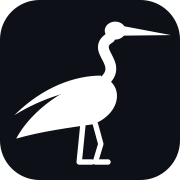
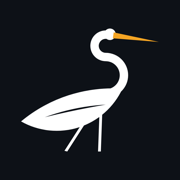
feat(brand): redraw the egret mark from circles and straight lines (#841)
* feat(brand): redraw the egret mark from circles and straight lines

The new mark is built only from basic geometry, shape-builder style:
two half-rings on one axis form the S-neck, a circle and a tangent
triangle form the head and beak, two intersecting circles form the
body, a crescent cuts the wing, and two rectangles are the legs.
Every outline in the shipped SVGs is an arc (A) or a line (L).

- favicon.svg, favicon-32, apple-touch-icon, icon-192/512: full mark
- favicon-16 and the 16px ICO frame: legs and wing cut dropped, as
  they vanish below 32px
- wordmarks (frontend/public and .github/assets): new bird, same letters
- architecture diagrams: embedded tile swapped
- egret-mark-construction.svg: the construction circles, for reference

* feat(brand): add the generator script for the egret mark

scripts/brand/egret_mark.py holds the geometric construction and writes
every logo asset from it: favicon.svg, wordmarks, architecture diagram
tiles, the construction sheet, and (via headless Chrome) the PNG/ICO
icons. Re-running it reproduces the committed assets byte for byte.
--docs copies the assets into an egret-data/docs checkout.

The construction sheet is now drawn from the flattened paths instead of
masks.

---------

diff --git a/scripts/brand/egret_mark.py b/scripts/brand/egret_mark.py
@@ -1,0 +1,309 @@
+#!/usr/bin/env python3
+"""Generate every egret logo asset from one geometric construction.
+
+The mark is built only from circles and straight lines, combined shape-builder style:
+
+  neck  = two half-rings (circle minus a concentric circle). Their centres A and B sit on one
+          vertical axis and each half is cut on that axis, so the two bands meet flush.
+  head  = one circle;  beak = triangle whose sides are tangent to a small root circle
+  body  = BACK ∩ BELLY (intersection of two circles)
+  wing  = crescent (circle minus circle) cut out of the body
+  legs  = two rectangles
+
+Every outline in the emitted SVGs is an arc (A) or a line (L). Change the construction values
+below and re-run to regenerate all assets.
+
+Usage (from the repo root):
+  python3 scripts/brand/egret_mark.py              # SVGs + PNG/ICO
+  python3 scripts/brand/egret_mark.py --svg-only   # SVGs only
+  python3 scripts/brand/egret_mark.py --docs ../docs   # also refresh the docs site copies
+
+PNG/ICO need headless Chrome (set CHROME=/path/to/chrome if it is not found) and either
+macOS `sips` or Pillow for downscaling.
+"""
+import argparse
+import math
+import os
+import re
+import shutil
+import struct
+import subprocess
+import sys
+import tempfile
+from pathlib import Path
+
+REPO = Path(__file__).resolve().parents[2]
+PI = math.pi
+
+# ---------------------------------------------------------------- construction (512 grid)
+def circle3(a, b, c):
+    """circle through three points → (cx, cy, r)"""
+    (ax, ay), (bx, by), (cx, cy) = a, b, c
+    d = 2 * (ax * (by - cy) + bx * (cy - ay) + cx * (ay - by))
+    ux = ((ax*ax + ay*ay) * (by - cy) + (bx*bx + by*by) * (cy - ay) + (cx*cx + cy*cy) * (ay - by)) / d
+    uy = ((ax*ax + ay*ay) * (cx - bx) + (bx*bx + by*by) * (ax - cx) + (cx*cx + cy*cy) * (bx - ax)) / d
+    return (ux, uy, math.hypot(ax - ux, ay - uy))
+
+
+def tangent_points(cx, cy, r, p):
+    """the two points where lines from p touch circle (cx, cy, r)"""
+    dx, dy = p[0] - cx, p[1] - cy
+    a, b = math.acos(r / math.hypot(dx, dy)), math.atan2(dy, dx)
+    return [(cx + r * math.cos(b + s * a), cy + r * math.sin(b + s * a)) for s in (1, -1)]
+
+
+X = 300                                  # neck axis
+W = 24                                   # neck weight
+A = (X, 252); RA_IN, RA_OUT = 40, 40 + W         # lower bowl, bulges forward
+B = (X, A[1] - RA_OUT - 20); RB_IN, RB_OUT = 20, 20 + W   # upper bowl, bulges back
+# flush joint: top band of A == bottom band of B
+assert (A[1] - RA_OUT, A[1] - RA_IN) == (B[1] + RB_IN, B[1] + RB_OUT)
+HEAD = (X + 12, B[1] - (RB_IN + RB_OUT) / 2 - 1, 16.5)
+TIP = (452, HEAD[1] + 22)
+ROOT = (HEAD[0] + 9, HEAD[1] + 3, 8.5)           # beak root circle
+BEAK = [TIP] + tangent_points(*ROOT, TIP)
+TAIL = (58, 384)
+FEET_Y = 470
+BACK = circle3(TAIL, (180, 314), (X + 2, A[1] + RA_IN - 2))
+BELLY = circle3(TAIL, (220, 402), (A[0] + RA_OUT - 22, A[1] + 50))
+WING_O = circle3((126, 372), (220, 346), (300, 336))
+WING_I = circle3((126, 372), (220, 351), (300, 336))
+LEGS = [[(282, 360), (290, 360), (286, FEET_Y), (278, FEET_Y)],
+        [(236, 384), (244, 386), (190, FEET_Y), (182, 468)]]
+
+# centre the bird in the tile
+TOP = min(B[1] - RB_OUT, HEAD[1] - HEAD[2])
+DX, DY = 256 - (TAIL[0] + TIP[0]) / 2, 256 - (TOP + FEET_Y) / 2
+
+DARK, ORANGE, ORANGE_ON_LIGHT = "#0d1117", "#f5a524", "#e8891a"
+
+# ---------------------------------------------------------------- path emission (M / L / A / Z)
+def num(v):
+    s = f"{v:.2f}".rstrip("0").rstrip(".")
+    return "0" if s == "-0" else s
+
+
+def pt(p):
+    return f"{num(p[0] + DX)} {num(p[1] + DY)}"
+
+
+def on(c, r, a):
+    return (c[0] + r * math.cos(a), c[1] + r * math.sin(a))
+
+
+def arc_to(c, r, a0, a1, ccw):
+    """arc on circle (c, r) from angle a0 to a1; ccw=True is counter-clockwise on screen"""
+    span = (a0 - a1) % (2 * PI) if ccw else (a1 - a0) % (2 * PI)
+    return f"A{num(r)} {num(r)} 0 {int(span > PI)} {0 if ccw else 1} {pt(on(c, r, a1))}"
+
+
+def inside(p, c):
+    return math.dist(p, c[:2]) < c[2] - 1e-6
+
+
+def intersections(c1, c2):
+    (x1, y1, r1), (x2, y2, r2) = c1, c2
+    d = math.dist((x1, y1), (x2, y2))
+    a = (r1*r1 - r2*r2 + d*d) / (2 * d); h = math.sqrt(r1*r1 - a*a)
+    mx, my = x1 + a * (x2 - x1) / d, y1 + a * (y2 - y1) / d
+    return [(mx + h * (y2 - y1) / d, my - h * (x2 - x1) / d), (mx - h * (y2 - y1) / d, my + h * (x2 - x1) / d)]
+
+
+def angle(c, p):
+    return math.atan2(p[1] - c[1], p[0] - c[0])
+
+
+def arc_between(c, p, q, other, want_inside):
+    """arc of c from p to q, taking the side whose midpoint is (not) inside `other`"""
+    a0, a1 = angle(c, p), angle(c, q)
+    for ccw in (False, True):
+        span = -((a0 - a1) % (2 * PI)) if ccw else (a1 - a0) % (2 * PI)
+        if inside(on(c, c[2], a0 + span / 2), other) == want_inside:
+            return arc_to(c, c[2], a0, a1, ccw)
+    raise ValueError("circles do not form the expected region")
+
+
+def lens(c1, c2):
+    p, q = intersections(c1, c2)
+    return f"M{pt(p)} {arc_between(c1, p, q, c2, True)} {arc_between(c2, q, p, c1, True)}Z"
+
+
+def crescent(outer, inner):
+    p, q = intersections(outer, inner)
+    return f"M{pt(p)} {arc_between(outer, p, q, inner, False)} {arc_between(inner, q, p, outer, True)}Z"
+
+
+def polygon(points):
+    return "M" + " L".join(pt(p) for p in points) + "Z"
+
+
+NECK = (f"M{pt((X, A[1] + RA_OUT))} "
+        f"{arc_to(A, RA_OUT, PI/2, -PI/2, True)} "               # front of the lower bowl
+        f"{arc_to(B, RB_IN, PI/2, 3*PI/2, False)} "              # inner edge of the upper bowl
+        f"L{pt((HEAD[0], B[1] - RB_IN))} L{pt((HEAD[0], B[1] - RB_OUT))} L{pt((X, B[1] - RB_OUT))} "
+        f"{arc_to(B, RB_OUT, 3*PI/2, PI/2, True)} "              # back of the upper bowl
+        f"{arc_to(A, RA_IN, -PI/2, PI/2, False)}Z")              # inner edge of the lower bowl
+HEAD_PATH = (f"M{pt((HEAD[0] - HEAD[2], HEAD[1]))} "
+             f"{arc_to(HEAD, HEAD[2], PI, 0, False)} {arc_to(HEAD, HEAD[2], 0, PI, False)}Z")
+BODY, WING = lens(BACK, BELLY), crescent(WING_O, WING_I)
+for p in intersections(WING_O, WING_I):
+    assert inside(p, BACK) and inside(p, BELLY), "the wing cut must sit inside the body"
+
+
+def svg(fg="#ffffff", accent=ORANGE, bg=DARK, tile=True, legs=True, wing=True, label=True, rx=112):
+    """the mark as an SVG document; legs/wing are dropped for the 16 px favicon"""
+    out = ['<svg xmlns="http://www.w3.org/2000/svg" viewBox="0 0 512 512"'
+           + (' role="img" aria-label="Egret"' if label else "") + ">"]
+    if tile:
+        out.append(f'<rect width="512" height="512" rx="{rx}" fill="{bg}"/>')
+    out.append(f'<path fill="{fg}" fill-rule="evenodd" d="{BODY}' + (f" {WING}" if wing else "") + '"/>')
+    out.append(f'<path fill="{fg}" d="{NECK}"/><path fill="{fg}" d="{HEAD_PATH}"/>')
+    if legs:
+        out.append(f'<path fill="{fg}" d="' + " ".join(polygon(l) for l in LEGS) + '"/>')
+    out.append(f'<path fill="{accent}" d="{polygon(BEAK)}"/>')
+    out.append("</svg>")
+    return "".join(out)
+
+
+def construction_svg():
+    """the mark, faded, with every construction circle and the neck axis on top"""
+    def circ(c, **kw):
+        attrs = "".join(f' {k.replace("_", "-")}="{v}"' for k, v in kw.items())
+        return f'<circle cx="{num(c[0] + DX)}" cy="{num(c[1] + DY)}" r="{num(c[2])}"{attrs}/>'
+    line = dict(fill="none", stroke="#e5484d", stroke_width="1.2")
+    circles = [(*A, RA_IN), (*A, RA_OUT), (*B, RB_IN), (*B, RB_OUT), HEAD, ROOT, BACK, BELLY, WING_O, WING_I]
+    parts = [f'<g opacity=".2">{inner(svg(fg=DARK, accent=DARK, tile=False, label=False))}</g>']
+    parts += [circ(c, **line) for c in circles]
+    parts += [circ((c[0], c[1], 2.4), fill="#e5484d") for c in (A, B, HEAD, BACK, BELLY)]
+    parts.append(f'<path d="{polygon(BEAK)} ' + " ".join(polygon(l) for l in LEGS) + '" fill="none" stroke="#e5484d" stroke-width="1.2"/>')
+    parts.append(f'<line x1="{num(X + DX)}" y1="40" x2="{num(X + DX)}" y2="480" stroke="#3b82f6" stroke-width="1" stroke-dasharray="4 4"/>')
+    return ('<svg xmlns="http://www.w3.org/2000/svg" viewBox="0 0 512 512">'
+            '<rect width="512" height="512" rx="112" fill="#f4f1ea"/>' + "".join(parts) + "</svg>\n")
+
+
+def inner(doc):
+    return re.sub(r"^<svg[^>]*>|</svg>$", "", doc)
+
+
+# ---------------------------------------------------------------- writers
+def replace_group(text, opener, new):
+    """swap the <g …> element that starts with `opener` (balanced on <g>/</g>)"""
+    i, depth = text.index(opener), 0
+    for m in re.finditer(r"<g\b|</g>", text[i:]):
+        depth += 1 if m.group() == "<g" else -1
+        if depth == 0:
+            return text[:i] + new + text[i + m.end():]
+    raise ValueError(f"unbalanced group: {opener}")
+
+
+def write_svgs():
+    pub, gh = REPO / "frontend/public", REPO / ".github/assets"
+    (pub / "favicon.svg").write_text(svg() + "\n")
+    (gh / "egret-mark-construction.svg").write_text(construction_svg())
+    # wordmarks: the bird fills the 100-unit box left of the letters
+    x0, x1 = TAIL[0] + DX, TIP[0] + DX
+    y0, y1 = TOP + DY, FEET_Y + DY
+    sc = 96 / (x1 - x0); tx, ty = 4 - x0 * sc, 50 - (y0 + y1) / 2 * sc
+    for theme, fg, accent in (("light", DARK, ORANGE_ON_LIGHT), ("dark", "#ffffff", ORANGE)):
+        bird = (f'<g transform="translate({tx:.2f} {ty:.2f}) scale({sc:.4f})">'
+                f'{inner(svg(fg=fg, accent=accent, tile=False, label=False))}</g>')
+        for d in (pub, gh):
+            p = d / f"egret-wordmark-{theme}.svg"; s = p.read_text()
+            letters = s[s.index('<g transform="translate(112'):]
+            p.write_text(s[:s.index(">") + 1] + bird + letters)
+    # architecture diagrams: 30 px tile next to the "Egret" title
+    for theme in ("light", "dark"):
+        p = gh / f"architecture-{theme}.svg"; s = p.read_text()
+        opener = '<g transform="translate(308 66) scale('
+        new = f'<g transform="translate(308 66) scale({30/512:.6f})">{inner(svg(label=False))}</g>'
+        p.write_text(replace_group(s, opener, new))
+
+
+def find_chrome():
+    for c in (os.environ.get("CHROME"), "/Applications/Google Chrome.app/Contents/MacOS/Google Chrome",
+              shutil.which("google-chrome"), shutil.which("chromium"), shutil.which("chromium-browser")):
+        if c and Path(c).exists():
+            return c
+    sys.exit("headless Chrome not found; set CHROME=/path/to/chrome or pass --svg-only")
+
+
+def render(chrome, doc, out_png, size=1024):
+    with tempfile.TemporaryDirectory() as t:
+        (Path(t) / "m.svg").write_text(doc)
+        (Path(t) / "r.html").write_text(f"<html><body style='margin:0;background:transparent'>"
+                                        f"<img src='m.svg' width={size} height={size}></body></html>")
+        subprocess.run([chrome, "--headless=new", "--disable-gpu", "--allow-file-access-from-files",
+                        f"--window-size={size},{size}", "--default-background-color=00000000",
+                        "--hide-scrollbars", f"--screenshot={out_png}", f"file://{t}/r.html"],
+                       check=True, capture_output=True)
+
+
+def downscale(src, dst, px):
+    if shutil.which("sips"):
+        subprocess.run(["sips", "-z", str(px), str(px), str(src), "--out", str(dst)], check=True, capture_output=True)
+        return
+    try:
+        from PIL import Image
+    except ImportError:
+        sys.exit("need macOS `sips` or Pillow to downscale PNGs")
+    Image.open(src).resize((px, px), Image.LANCZOS).save(dst)
+
+
+def write_ico(dst, pngs):
+    data = [Path(p).read_bytes() for p, _ in pngs]
+    head = struct.pack("<HHH", 0, 1, len(data)); offset = 6 + 16 * len(data); entries = b""
+    for d, (_, px) in zip(data, pngs):
+        entries += struct.pack("<BBBBHHII", px % 256, px % 256, 0, 0, 1, 32, len(d), offset); offset += len(d)
+    Path(dst).write_bytes(head + entries + b"".join(data))
+
+
+def write_rasters():
+    chrome, pub = find_chrome(), REPO / "frontend/public"
+    with tempfile.TemporaryDirectory() as t:
+        full, small, apple = (Path(t) / n for n in ("full.png", "small.png", "apple.png"))
+        render(chrome, svg(), full)
+        render(chrome, svg(legs=False, wing=False), small)
+        render(chrome, svg(rx=0), apple)                  # iOS rounds the corners itself
+        downscale(small, pub / "favicon-16.png", 16)
+        downscale(full, pub / "favicon-32.png", 32)
+        downscale(full, Path(t) / "ico-48.png", 48)
+        downscale(apple, pub / "apple-touch-icon.png", 180)
+        downscale(full, pub / "icon-192.png", 192)
+        downscale(full, pub / "icon-512.png", 512)
+        write_ico(pub / "favicon.ico", [(pub / "favicon-16.png", 16), (pub / "favicon-32.png", 32),
+                                        (Path(t) / "ico-48.png", 48)])
+
+
+# the docs site (egret-data/docs) ships byte-identical copies of these assets
+DOCS_COPIES = {
+    "frontend/public/favicon.svg": ["static/img/favicon.svg", "static/img/logo.svg"],
+    "frontend/public/favicon.ico": ["static/favicon.ico"],
+    "frontend/public/favicon-32.png": ["static/img/favicon-32.png"],
+    "frontend/public/apple-touch-icon.png": ["static/img/apple-touch-icon.png"],
+    "frontend/public/egret-wordmark-light.svg": ["static/img/wordmark-light.svg"],
+    "frontend/public/egret-wordmark-dark.svg": ["static/img/wordmark-dark.svg"],
+    ".github/assets/architecture-light.svg": ["static/img/architecture-light.svg"],
+    ".github/assets/architecture-dark.svg": ["static/img/architecture-dark.svg"],
+}
+
+
+def copy_to_docs(docs):
+    docs = Path(docs)
+    if not (docs / "docusaurus.config.ts").exists():
+        sys.exit(f"{docs} is not an egret-data/docs checkout")
+    for src, dsts in DOCS_COPIES.items():
+        for dst in dsts:
+            shutil.copyfile(REPO / src, docs / dst)
+
+
+if __name__ == "__main__":
+    ap = argparse.ArgumentParser(description=__doc__.split("\n")[0])
+    ap.add_argument("--svg-only", action="store_true", help="skip PNG/ICO rendering")
+    ap.add_argument("--docs", metavar="PATH", help="also copy the assets into an egret-data/docs checkout")
+    args = ap.parse_args()
+    write_svgs()
+    if not args.svg_only:
+        write_rasters()
+    if args.docs:
+        copy_to_docs(args.docs)
+    print("egret mark assets written")
